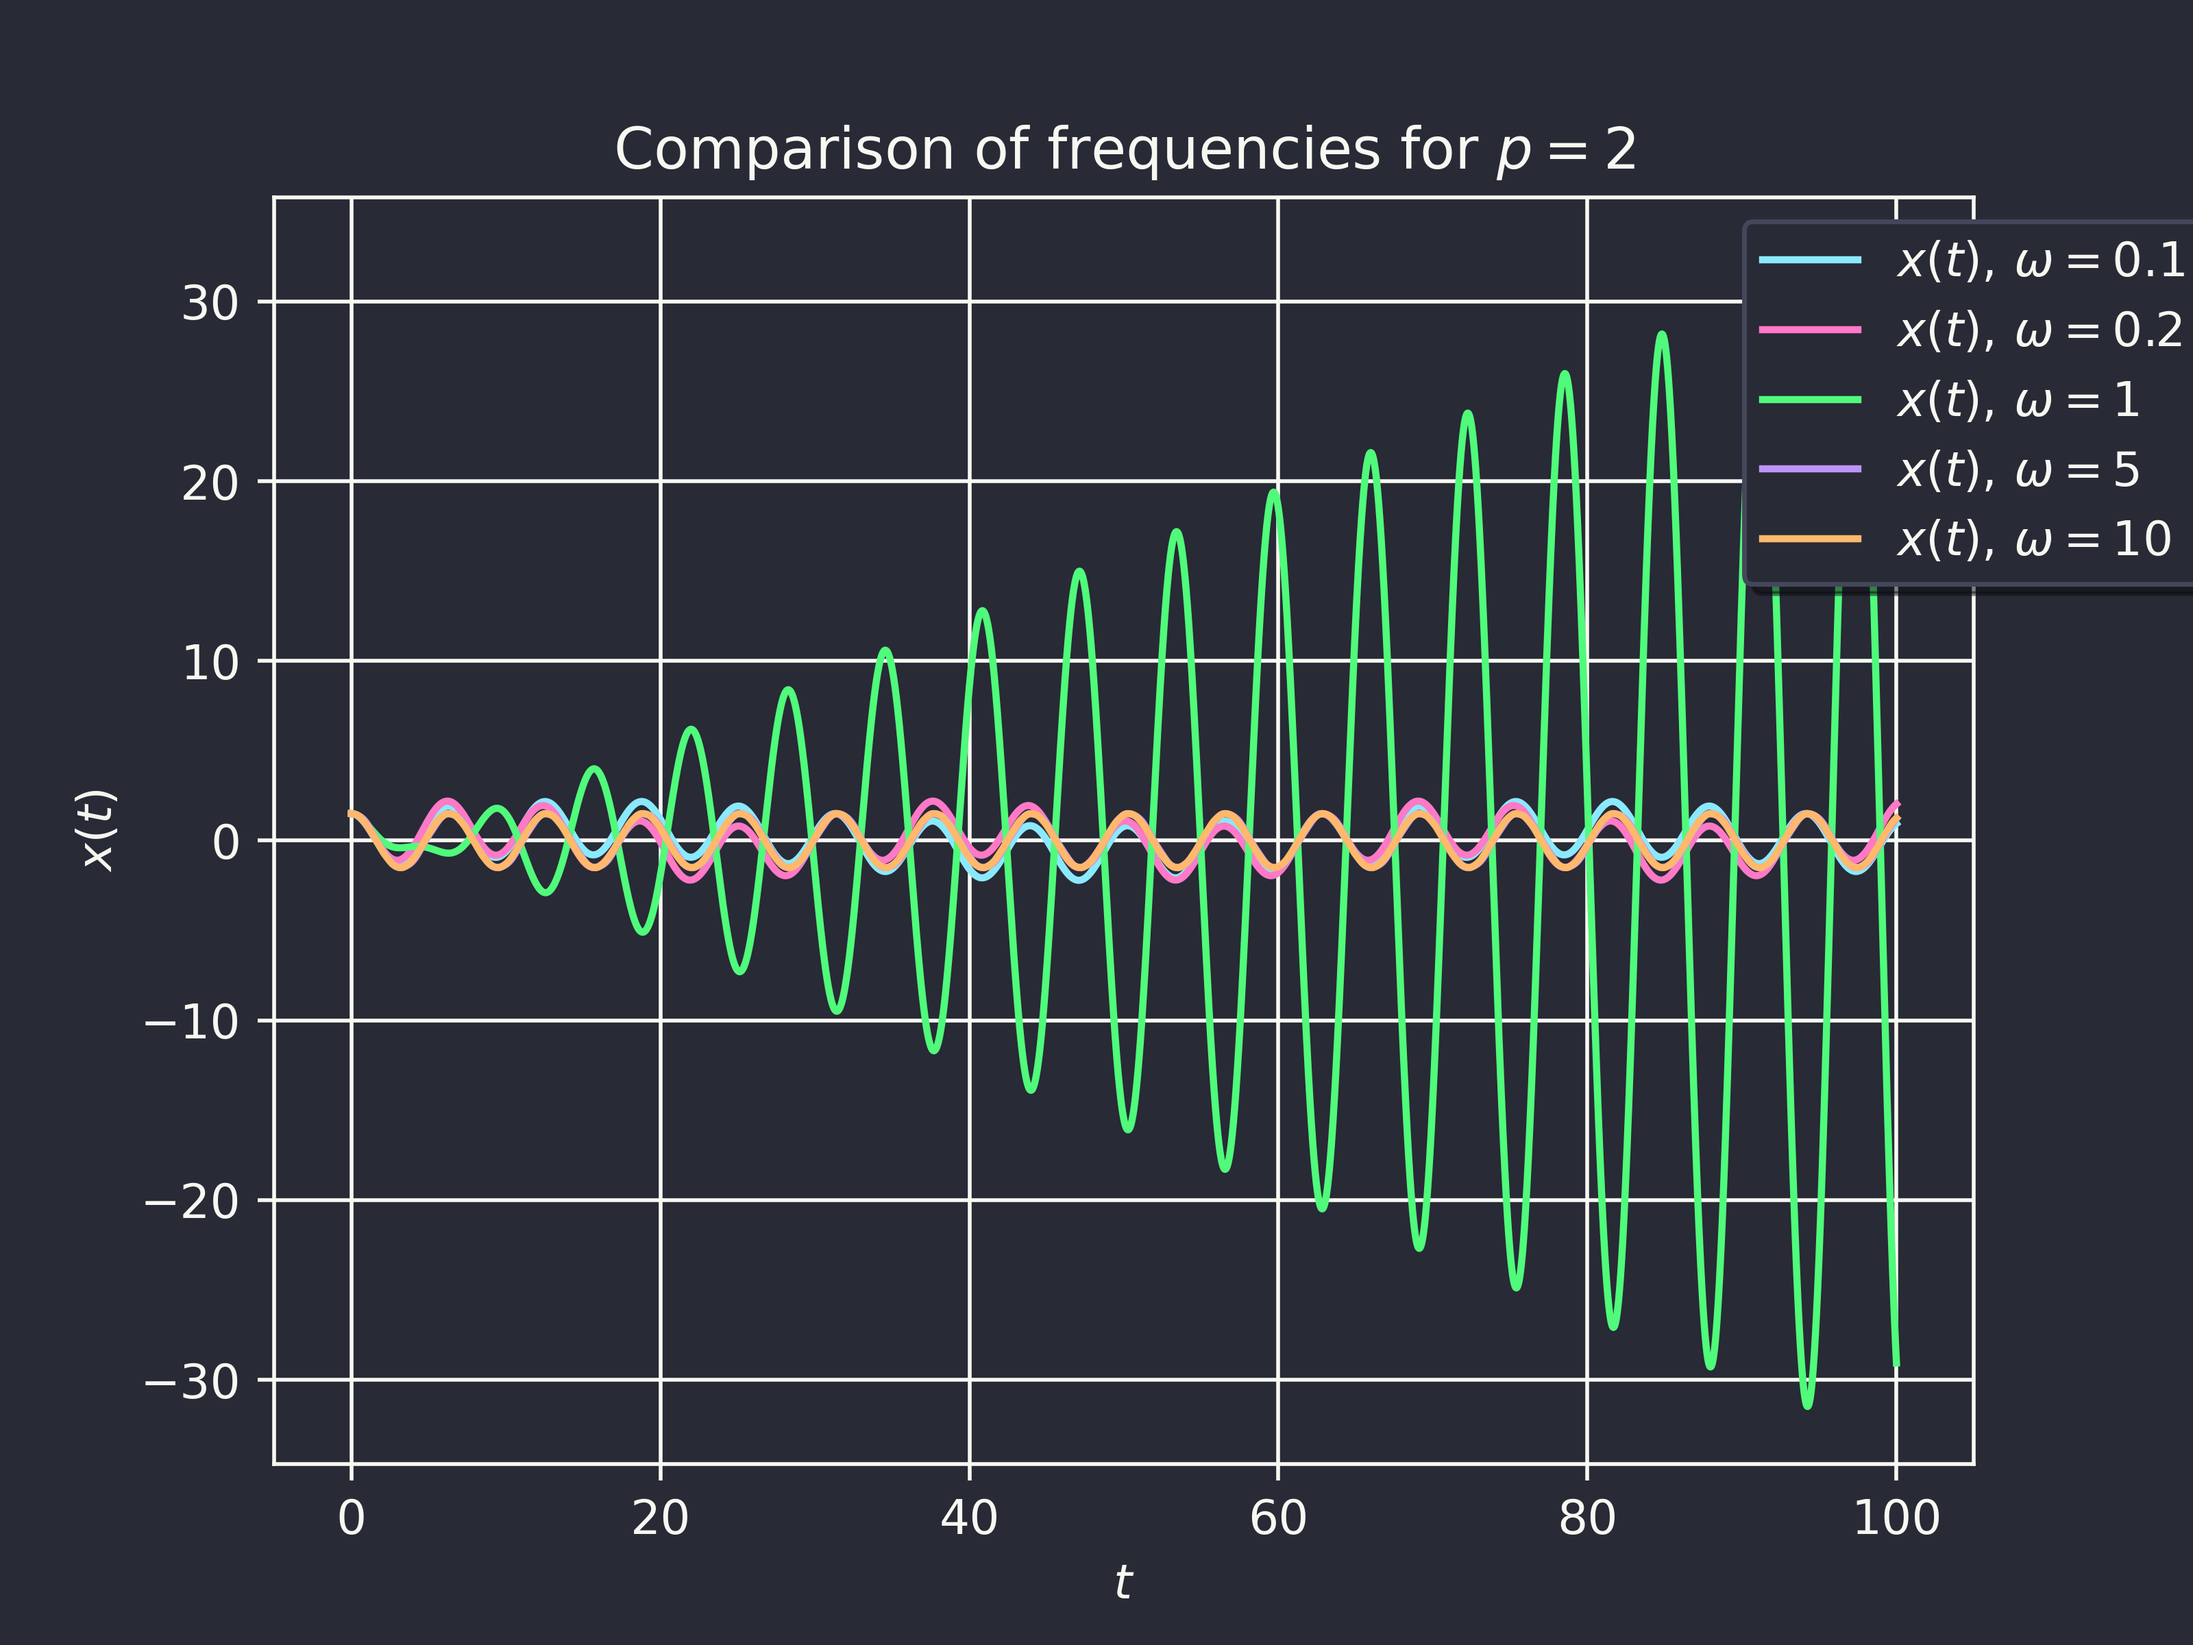
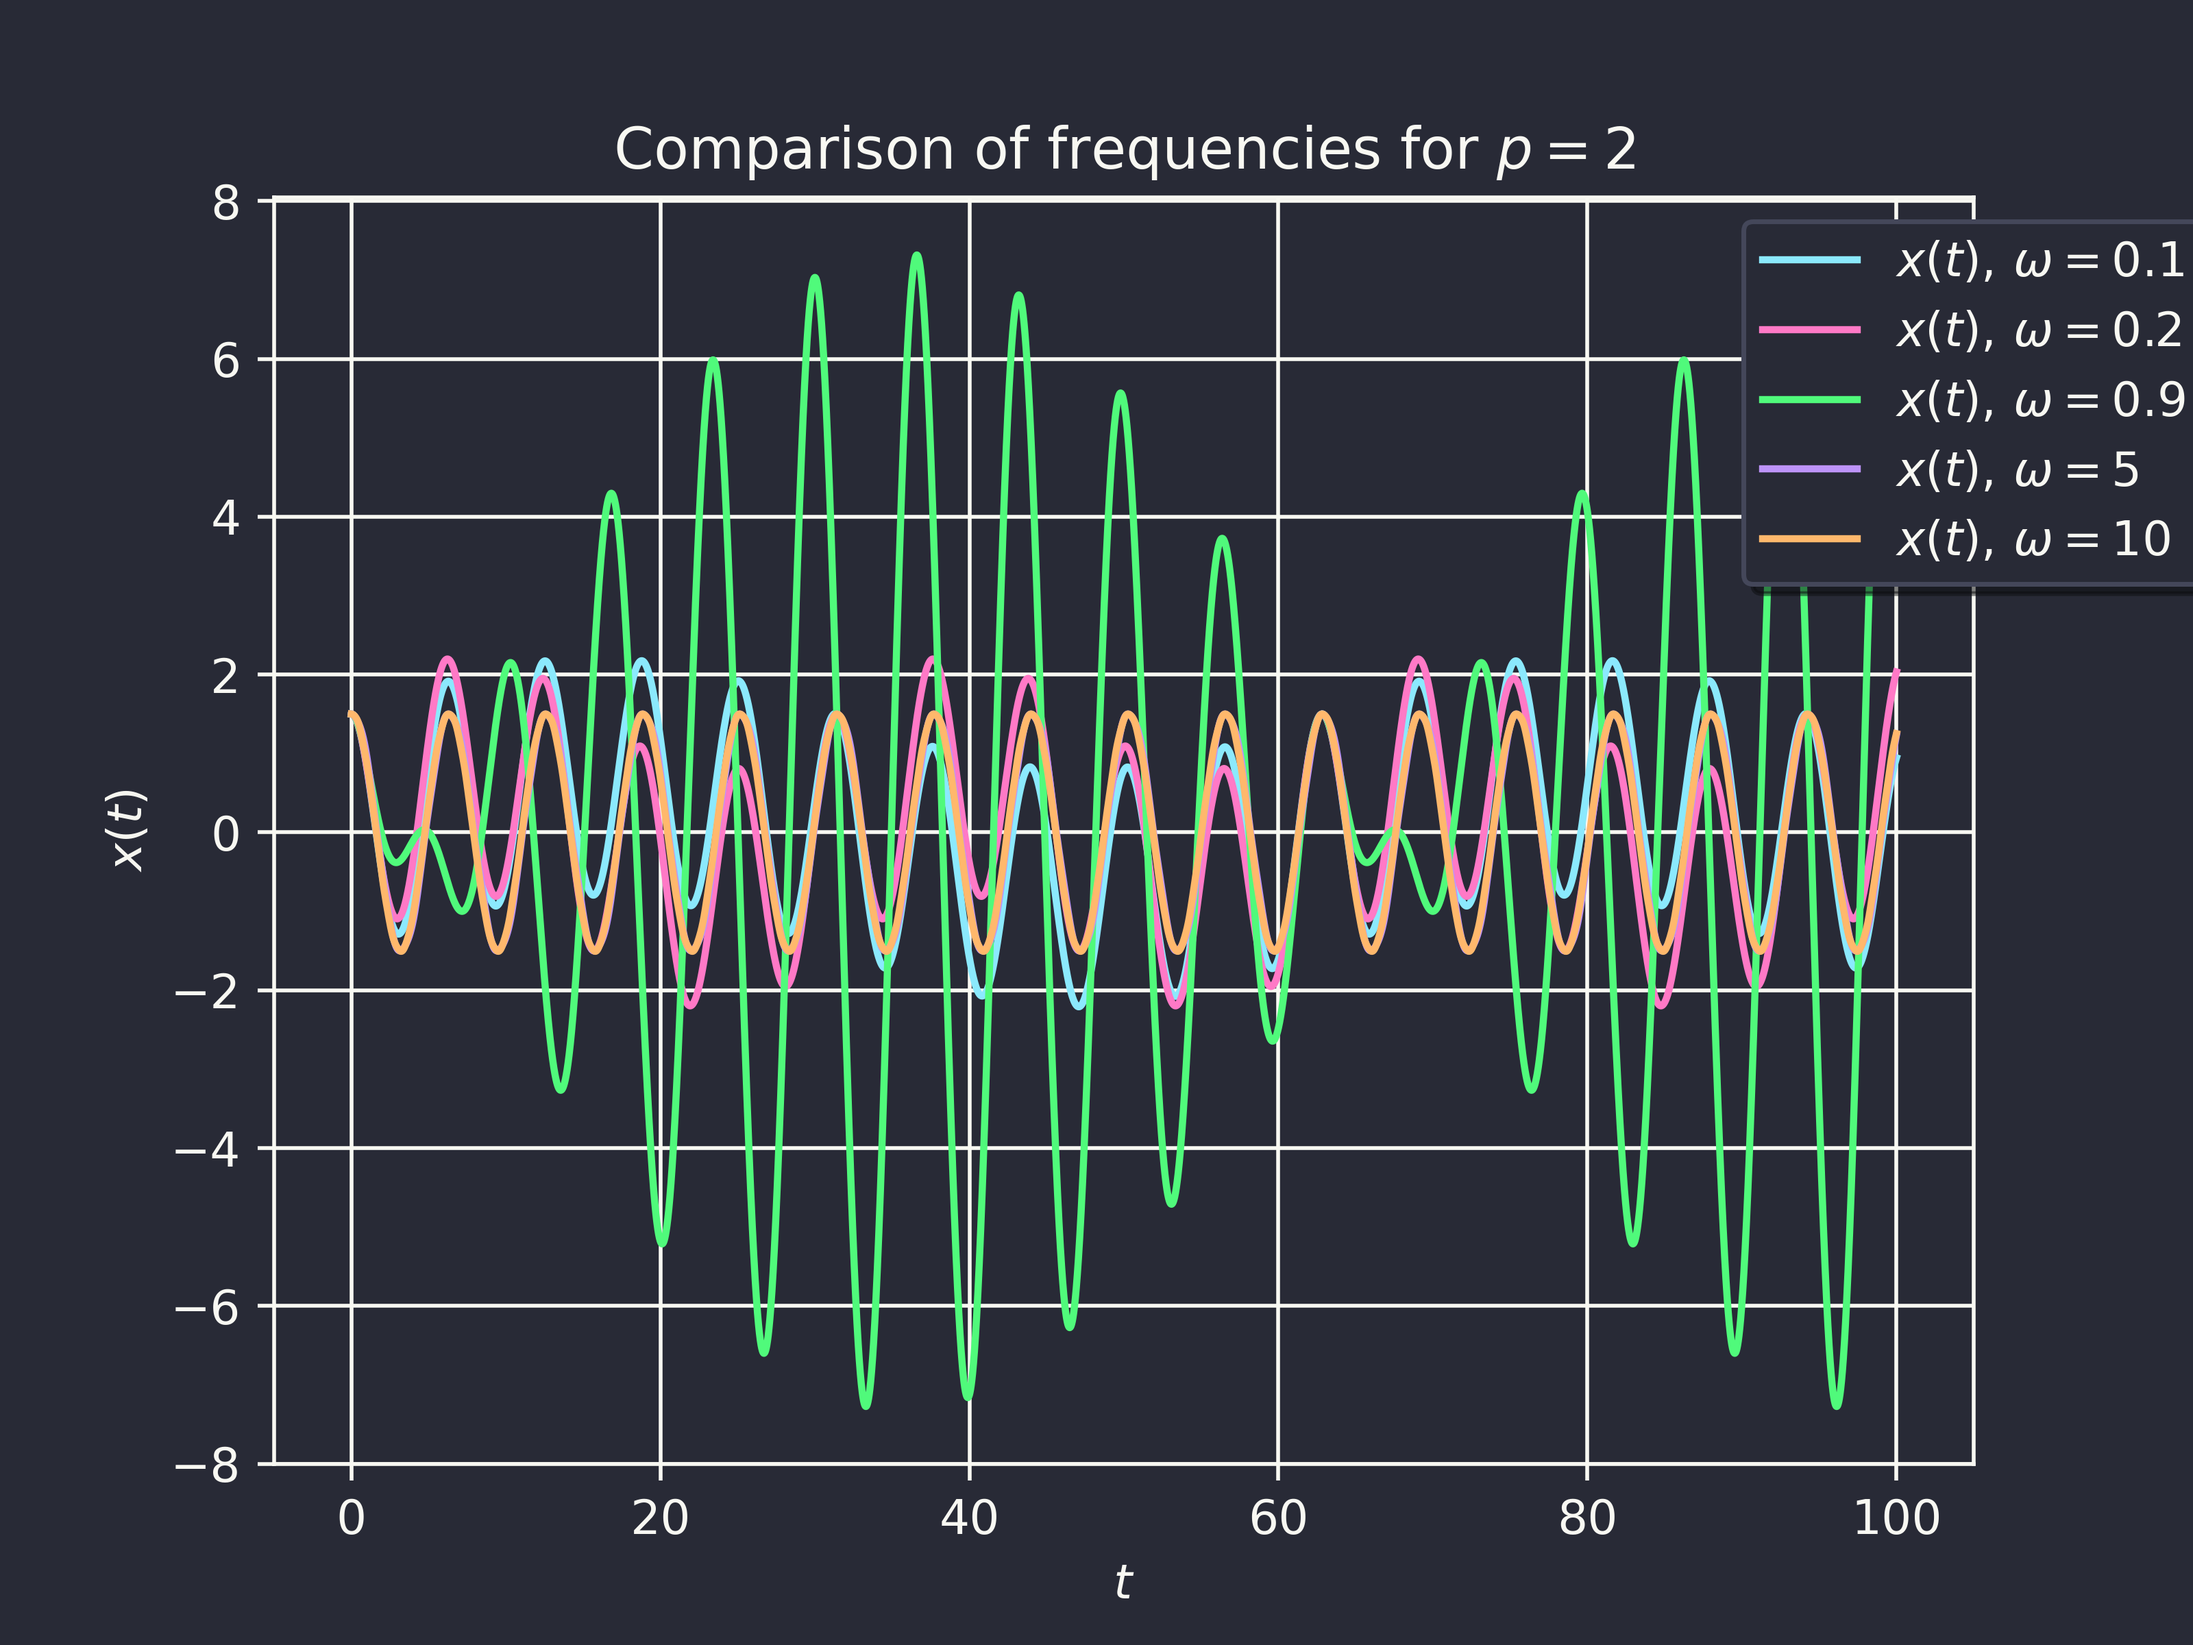
Fixed q2.4

diff --git a/POMShw/main.py b/POMShw/main.py
@@ -225,7 +225,7 @@ plt.savefig('q2_3.png', dpi=500)
 plt.close()
 
 # code for q2.4
-O = [1/10, 1/5, 1, 5, 10]
+O = [1/10, 1/5, 0.9, 5, 10]
 for o in O:
     solm3_F = odeint(model3, y0, t, args=(m, k, p1, o, f))
     plt.plot(t, solm3_F[:, 0], label='$x(t), \, \omega=$' + str(o))
@@ -239,7 +239,7 @@ plt.savefig('q2_4_p2.png', dpi=500)
 plt.close()
 
 for o in O:
-    solm3_F = odeint(model3, y0, t, args=(m, k, p2, o, f))
+    solm3_F = odeint(model3, y0, t, args=(m, k, p2, o, 1.6))
     plt.plot(t, solm3_F[:, 0], label='$x(t), \, \omega=$' + str(o))
 
 plt.legend(loc='upper center', bbox_to_anchor=(1, 1),  shadow=True, ncol=1)
